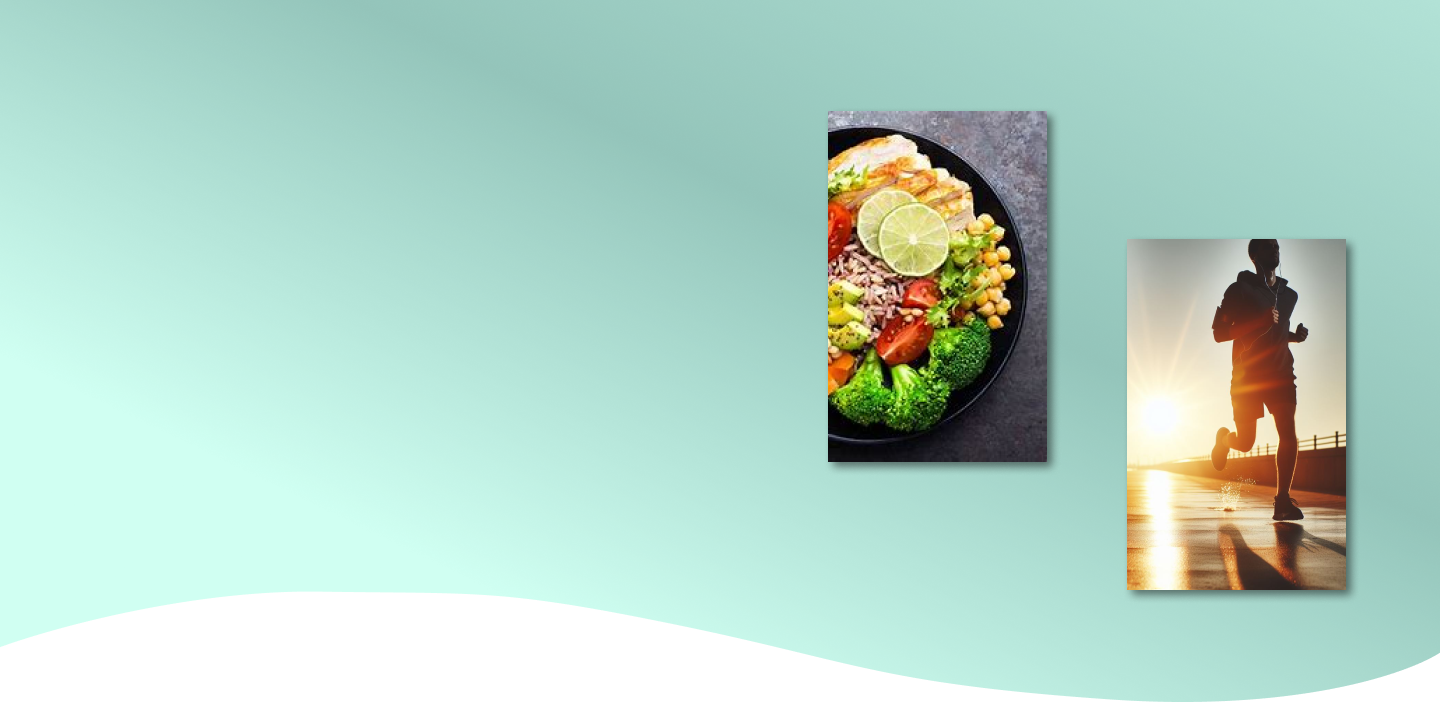
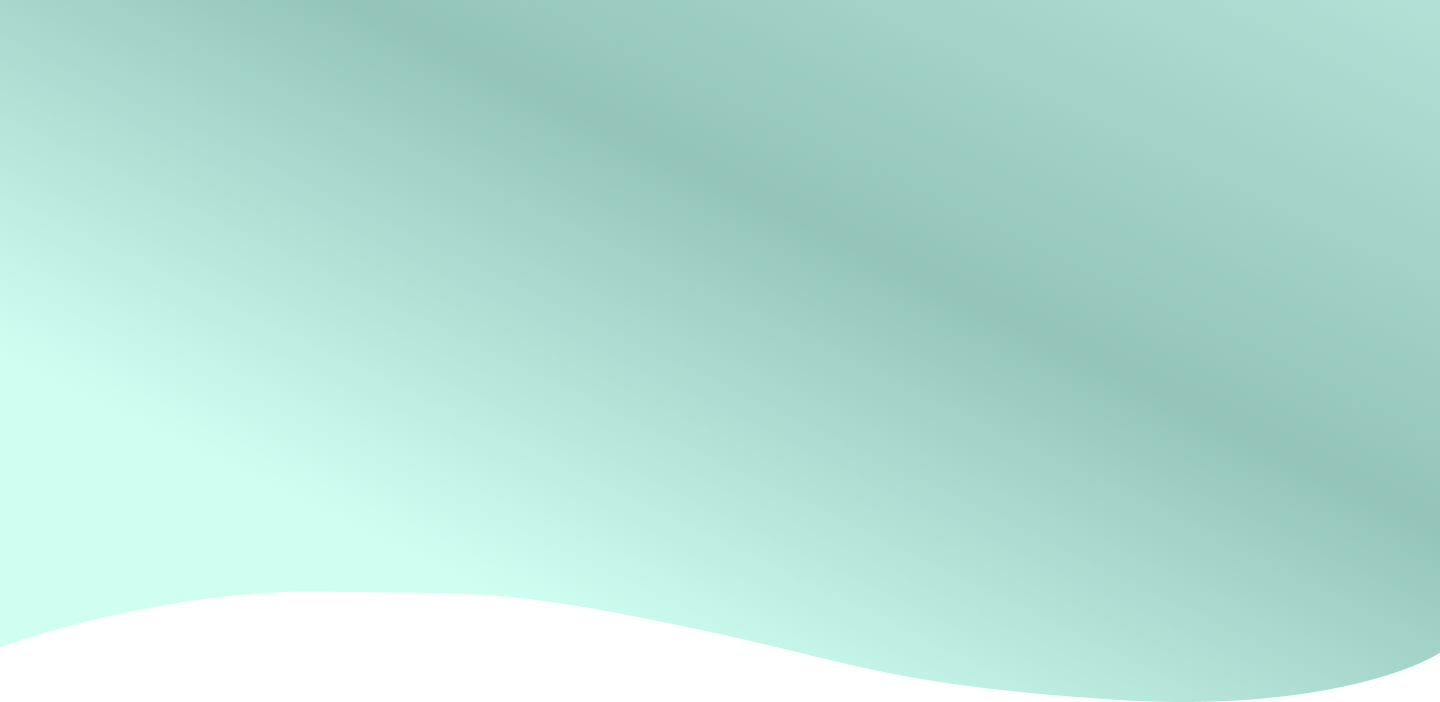
style/responsive landing page

Changed region(s): [[0.5625, 0.1496, 0.75, 0.688], [0.7812, 0.3291, 0.9375, 0.8675]]

diff --git a/src/pages/Landing.jsx b/src/pages/Landing.jsx
@@ -4,6 +4,8 @@ import Navbar from "../components/Navbar";
 import bmiInd from "../assets/bmiInd.png";
 import PicKalori from "../assets/pic-kalori.png";
 import PicRecommend from "../assets/pic-recommend.png";
+import PicRecipe from "../assets/resep.png";
+import CheckInHere from "../assets/cekin.png";
 import BasicButton from "../components/BasicButton";
 
 const features = [
@@ -16,7 +18,7 @@ const features = [
     btnText: "Kalkulator BMI & AKG",
   },
   {
-    title: "Hitung Kalori Makanan yang Dimakan",
+    title: "Hitung Kalori Makanan",
     description:
       "Pantau jumlah kalori yang masuk ketubuh Anda berdasarkan makanan yang Anda Makan.",
     imageUrl: PicKalori,
@@ -35,7 +37,7 @@ const features = [
     title: "Dapatkan Resep Kreatif",
     description:
       "Berbagi resep kreatif dalam forum untuk menghindari kejenuhan menu makan.",
-    imageUrl: "https://via.placeholder.com/250",
+    imageUrl: PicRecipe,
     link: "/resep",
     btnText: "Resep Kreatif",
   },
@@ -43,7 +45,7 @@ const features = [
     title: "Check-In Setiap Hari",
     description:
       "Jangan sampai terlewat melakukan check-in harian untuk mendapatkan banyak voucher jajan makanan sehat.",
-    imageUrl: "https://via.placeholder.com/250",
+    imageUrl: CheckInHere,
     link: "/check-in",
     btnText: "Check-In Harian",
   },
@@ -51,22 +53,21 @@ const features = [
 
 const Landing = () => {
   return (
-    <div>
-      <header className="h-24">
-        <Navbar />
-      </header>
-      <div className="bg-cover bg-center h-screen text-white flex flex-col items-start bg-bg-landing">
-        <h1 className="text-7xl font-kaushan text-c-birdong mt-52 mx-28">
+    <div className="font-poppins text-c-birdong">
+      <Navbar />
+      
+      <div className="bg-cover bg-center w-full min-h-screen text-white flex flex-col items-start bg-bg-landing">
+        <h1 className="text-5xl lg:text-7xl font-kaushan text-c-birdong mt-36 lg:mt-52 mx-10 lg:mx-28">
           I-Fit
         </h1>
-        <p className="text-4xl text-c-birdong font-poppins font-bold mx-28 mb-6">
+        <p className="text-2xl lg:text-4xl text-c-birdong font-bold mx-10 lg:mx-28 mb-6">
           Tubuhmu Nomor Satu
         </p>
-        <p className="w-[632px] text-xl text-c-birdong font-poppins font-normal mx-28">
-          Lorem ipsum dolor sit amet, consectetur adipiscing elit, sed do
-          eiusmod tempor incididunt ut labore et dolore magna aliqua. Ut enim ad
-          minim veniam, quis nostrud exercitation ullamco laboris nisi ut
-          aliquip ex ea commodo consequat.
+        <p className="w-3/4 lg:w-1/2 text-md lg:text-xl text-c-birdong font-normal mx-10 lg:mx-28">
+          I-Fit siap untuk mendampingi kalian dalam 
+          menjalankan gaya hidup sehat. 
+          Fitur–fitur yang tersedia di I-Fit dapat membantu kamu
+          dalam memahami diet dan olahraga yang sesuai dengan kebutuhanmu.
         </p>
       </div>
       <div className="py-16 flex flex-col items-center">
@@ -80,23 +81,23 @@ const Landing = () => {
             <img
               src={feature.imageUrl}
               alt={feature.title}
-              className="w-auto h-auto object-cover"
+              className="w-3/4 h-3/4 lg:w-auto lg:h-auto object-cover"
             />
             <div
               className={`md:w-3/4 md:px-8 text-center mt-4 md:mt-0 ${
                 index % 2 === 0 ? "md:text-left" : "md:text-right"
               }`}
             >
-              <h2 className="text-4xl font-poppins font-bold text-c-birdong mb-2">
+              <h2 className="text-xl lg:text-4xl font-bold text-c-birdong mb-2">
                 {feature.title}
               </h2>
               <div
-                className={`w-[450px] ${
+                className={`w-full px-10 lg:px-0 ${
                   index % 2 === 0 ? "ml-0 mr-auto" : "ml-auto mr-0"
                 }`}
               >
                 <p
-                  className={`text-c-birdong font-poppins font-normal mb-4 ${
+                  className={`text-md lg:text-xl text-c-birdong font-normal mb-4 ${
                     index % 2 === 0 ? "ml-0 mr-auto" : "ml-auto mr-0"
                   }`}
                 >
@@ -105,8 +106,8 @@ const Landing = () => {
               </div>
 
               <div
-                className={`w-2/5 ${
-                  index % 2 === 0 ? "ml-0 mr-auto" : "ml-auto mr-0"
+                className={`max-w-fit mx-auto ${
+                  index % 2 === 0 ? "lg:ml-0 lg:mr-auto" : "lg:ml-auto lg:mr-0"
                 }`}
               >
                 <Link to={`${feature.link}`}>
